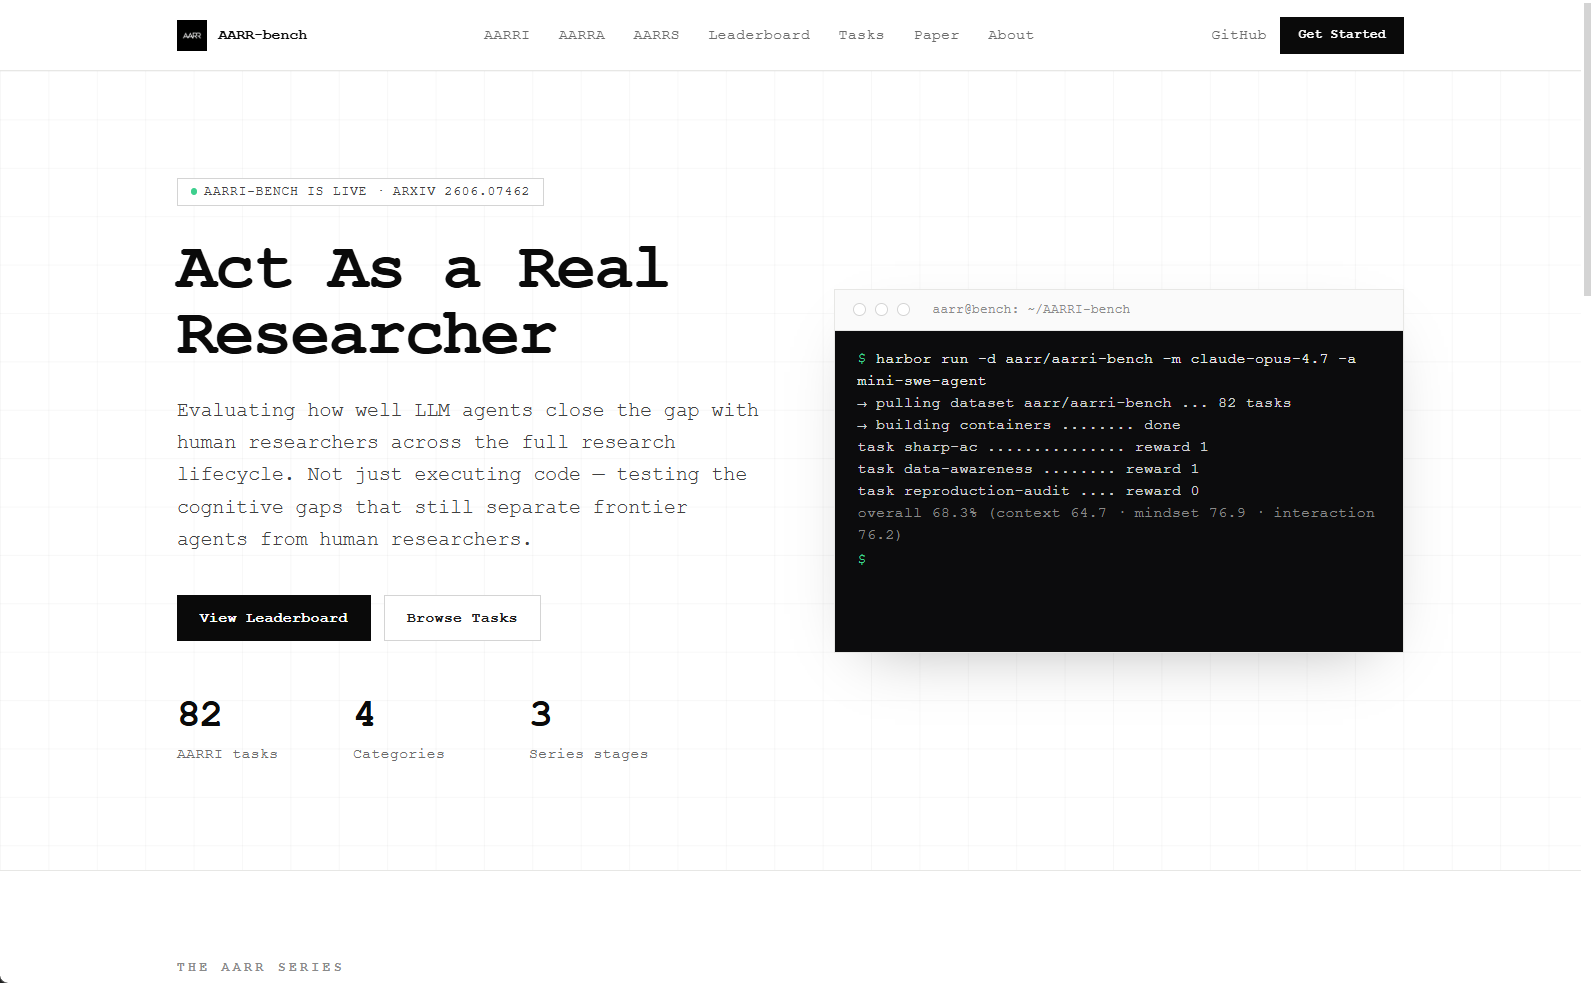
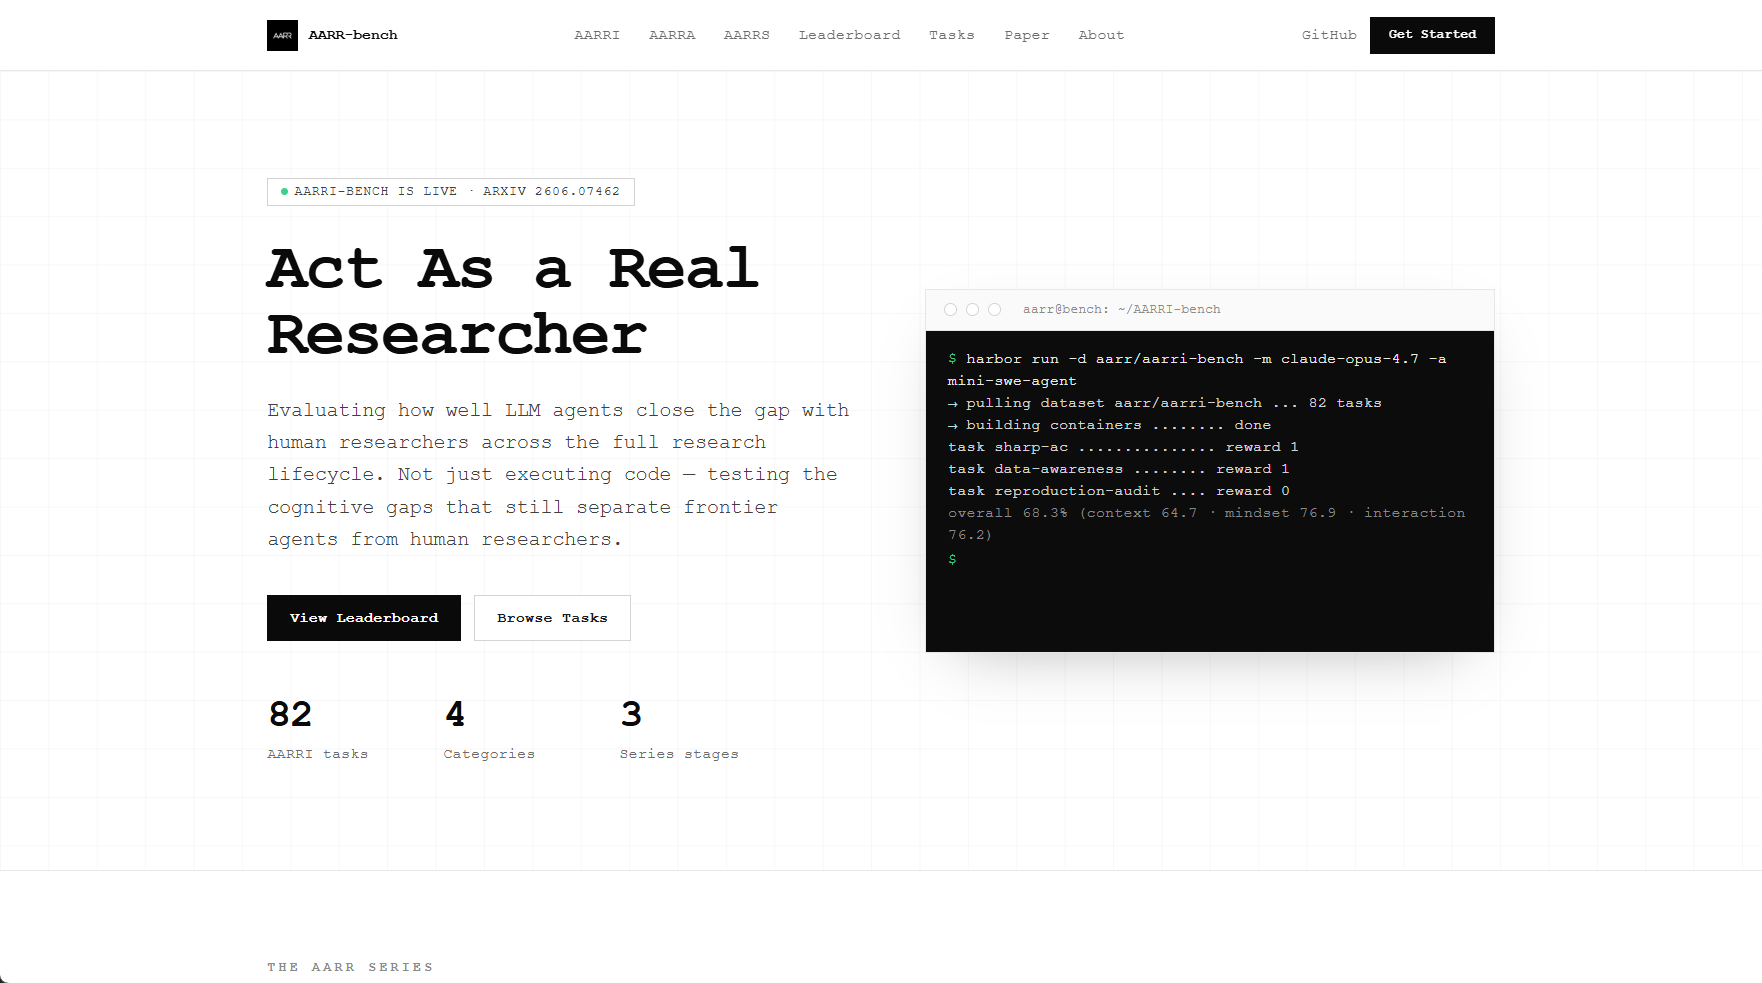
add antlet

diff --git a/_pages/about.md b/_pages/about.md
@@ -32,7 +32,7 @@ I'm a third-year Computer Science student at the College of Computer Science and
     <td width="45%" valign="top">
       <b>Efficient Agent Scaffolding & Harness</b><br>
       Paper: <a href="https://arxiv.org/abs/2511.17198">Designing Domain-Specific Agents via Hierarchical Task Abstraction Mechanism</a>(2025.11 arxiv)<br>
-      Project: Antlet (ongoing)<br>
+      Project: <a href="https://github.com/JiayuuWang/Antlet-CLI">Antlet-CLI</a><br>
       Blog: <a href="https://jiayuuwang.github.io/agent%20scaffolding/code-gen%20tools/the-generalization-of-agent-scaffolding/">Why Does Claude Code Work So Well on Non‑Coding Tasks?</a>
     </td>
     <td width="10%" align="center" valign="middle"></td>
@@ -61,7 +61,7 @@ I'm a third-year Computer Science student at the College of Computer Science and
     <td></td>
     <td width="45%" valign="top">
       <b>Computer Use Agent</b><br>
-      Project: <a href="https://aarr-bench.com/"></a>AARR Series<br>
+      Project: <a href="https://aarr-bench.com/">AARR Series</a><br>
       Paper: <a href="https://arxiv.org/abs/2606.07462">Act As a Real Researcher: A Suite of Benchmarks Evaluating Frontier LLMs and Agentic Harnesses in Research Lifecycle</a>(2026.05 arxiv)<br>
       Project: <a href="https://github.com/JiayuuWang/Auto-Cursor">Auto-Cursor</a><br>
       Blog: <a href="https://jiayuuwang.github.io/computer%20vision/agent/browser%20automation/why-am-I-still-bullish-on-gui-agent-in-2026/">Why I'm Still Bullish on GUI Agents in 2026</a>
@@ -188,6 +188,15 @@ Evaluating how well LLM agents close the gap with human researchers across the f
 </div>
 
 <img src='images/aarr.png' alt="sym" width="70%">
+
+
+<div markdown="1">
+## **Antlet-CLI (on going)** ([link](https://github.com/JiayuuWang/Antlet-CLI)) (May 2026)
+
+A nano coding agent built with **Rust**, supporting memory management, and cron-triggered tasks. It has extremely fast startup speed and minimal memory footprint, and natively supports running a massive number of agent instances simultaneously. 
+</div>
+
+<iframe src="https://player.bilibili.com/player.html?bvid=BV1TwEJ6EEUR&page=1&high_quality=1&danmaku=0" width="70%" height="500"  scrolling="no" border="0" frameborder="no" framespacing="0" allowfullscreen="true"></iframe>
 
 
 <div markdown="1">
@@ -375,27 +384,27 @@ A set of public MCP (Model Context Protocol) servers I built and published, avai
 </div> -->
 
 <div class="contrib-grid contrib-grid--mcp">
-  <a class="contrib-card" href="https://github.com/shopify/shopify-mcp-server" title="Shopify MCP Server">
+  <a class="contrib-card" href="https://www.dedaluslabs.ai/marketplace/JiayuWang(%E7%8E%8B%E5%98%89%E5%AE%87)/shopify-admin-mcp" title="Shopify MCP Server">
     <img src="{{ '/images/contrib/mcp-shopify.svg' | relative_url }}" alt="Shopify">
     <span class="contrib-name">Shopify</span>
   </a>
-  <a class="contrib-card" href="https://github.com/supabase/supabase-mcp-server" title="Supabase MCP Server">
+  <a class="contrib-card" href="https://www.dedaluslabs.ai/marketplace/JiayuWang(%E7%8E%8B%E5%98%89%E5%AE%87)/supabase-mcp" title="Supabase MCP Server">
     <img src="{{ '/images/contrib/mcp-supabase.svg' | relative_url }}" alt="Supabase">
     <span class="contrib-name">Supabase</span>
   </a>
-  <a class="contrib-card" href="https://github.com/asana/asana-mcp-server" title="Asana MCP Server">
+  <a class="contrib-card" href="https://www.dedaluslabs.ai/marketplace/JiayuWang(%E7%8E%8B%E5%98%89%E5%AE%87)/asana-mcp" title="Asana MCP Server">
     <img src="{{ '/images/contrib/mcp-asana.svg' | relative_url }}" alt="Asana">
     <span class="contrib-name">Asana</span>
   </a>
-  <a class="contrib-card" href="https://github.com/airtable/airtable-mcp-server" title="Airtable MCP Server">
+  <a class="contrib-card" href="https://www.dedaluslabs.ai/marketplace/JiayuWang(%E7%8E%8B%E5%98%89%E5%AE%87)/airtable-mcp" title="Airtable MCP Server">
     <img src="{{ '/images/contrib/mcp-airtable.svg' | relative_url }}" alt="Airtable">
     <span class="contrib-name">Airtable</span>
   </a>
-  <a class="contrib-card" href="https://github.com/vercel/vercel-mcp-server" title="Vercel MCP Server">
+  <a class="contrib-card" href="https://www.dedaluslabs.ai/marketplace/JiayuWang(%E7%8E%8B%E5%98%89%E5%AE%87)/vercel-mcp" title="Vercel MCP Server">
     <img src="{{ '/images/contrib/mcp-vercel.svg' | relative_url }}" alt="Vercel">
     <span class="contrib-name">Vercel</span>
   </a>
-  <a class="contrib-card" href="https://github.com/hubspot/hubspot-mcp-server" title="HubSpot MCP Server">
+  <a class="contrib-card" href="https://www.dedaluslabs.ai/marketplace/JiayuWang(%E7%8E%8B%E5%98%89%E5%AE%87)/hubspot-mcp" title="HubSpot MCP Server">
     <img src="{{ '/images/contrib/mcp-hubspot.svg' | relative_url }}" alt="HubSpot">
     <span class="contrib-name">HubSpot</span>
   </a>